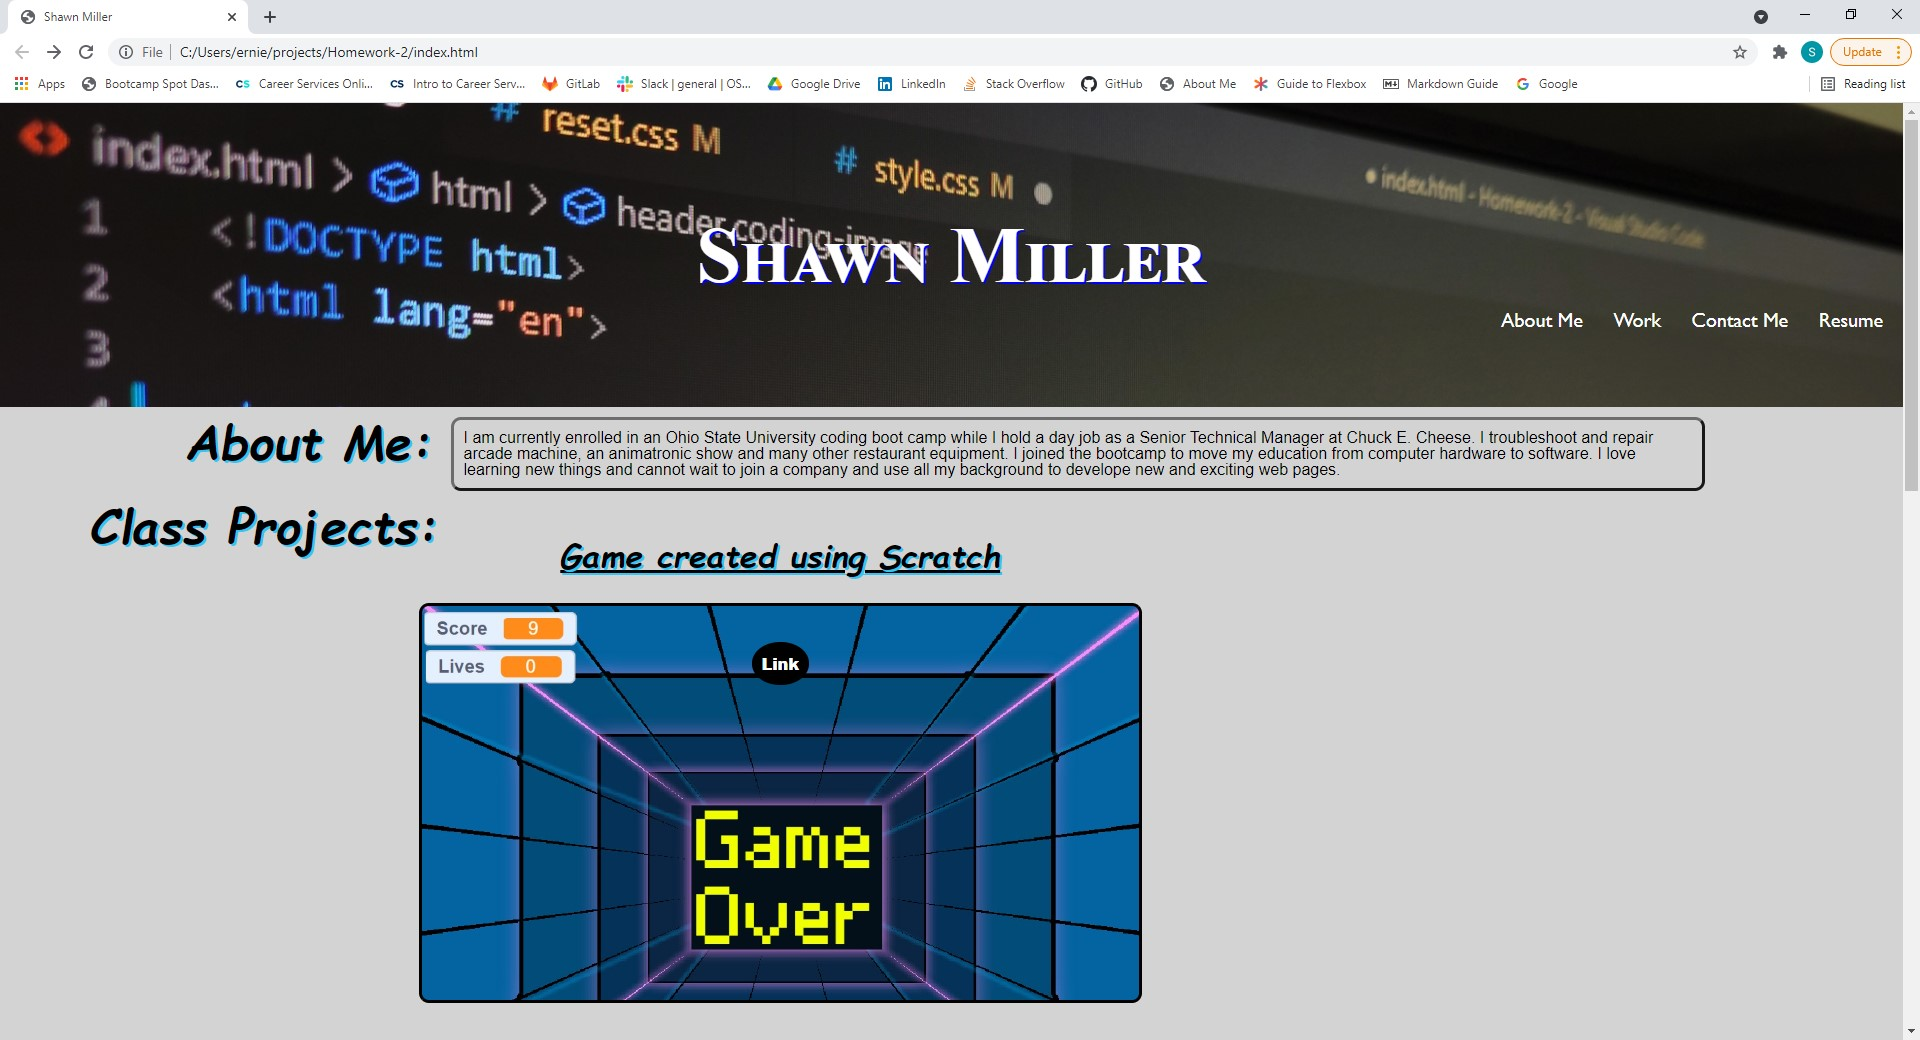
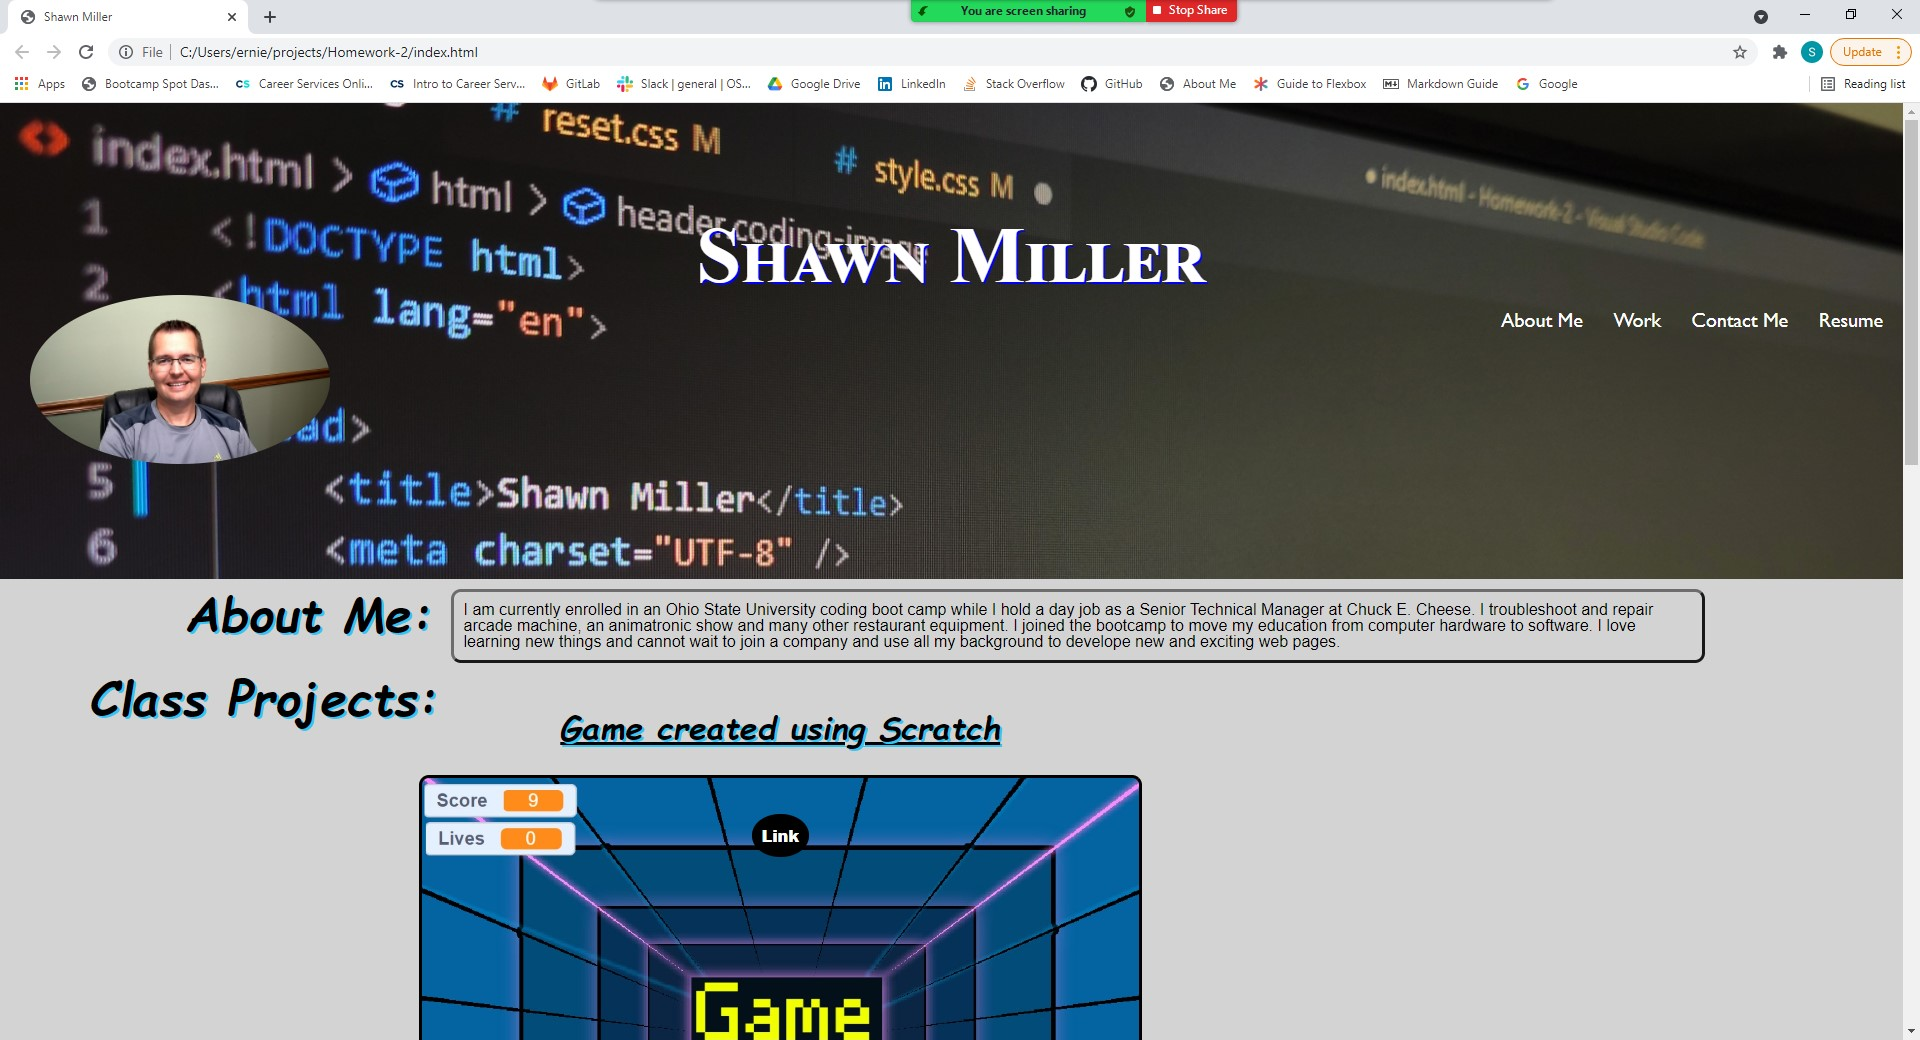
release candidate

diff --git a/assets/css/style.css b/assets/css/style.css
@@ -4,7 +4,7 @@
     --shadow: rgb(54, 196, 240);
 }
 
-
+/* background image of header */
 .coding-image{
     padding: 7em 0;
     background-image: url(../img/coding.jpg);
@@ -27,6 +27,13 @@ header h1 {
     /* background-color: rgb(109, 109, 109);
     padding: 15px;
     border-radius: 50px; */
+}
+/* personal photo */
+img{
+    position: relative;
+    margin-left: 30px;
+    width: 300px;
+    border-radius: 100%;
 }
 
 /* Navigation Bar off the right below "Shawn Miller" */
@@ -298,7 +305,6 @@ footer {
 .coding-image h1 {
     font-size: 400%;
     margin-left: 10px;
-    text-align: center;
 }
 
 /* give some space between heading and projects */

diff --git a/index.html b/index.html
@@ -11,6 +11,7 @@
 <body>
     <header class="coding-image">
         <h1>Shawn Miller</h1>
+            <img src="assets/img/shawn.jpg">
             <nav>
                 <ul>
                     <li>

diff --git a/README.md b/README.md
@@ -9,7 +9,7 @@ Created by Shawn Miller
 This website was made to show off my accomplishments as a web developer.  On this site you will find projects that I have worked on and links to those projects. You will also fine my contact information and a link to my resume.
 
 # Appearance
-!assets\img\tiedye.jpg
+![Screenshot of website](assets\img\screenshot.jpg)
 
 # Known Bugs
 No known bugs, although I will be making changes to tweek the formatting as I learn more languages through out the course.
